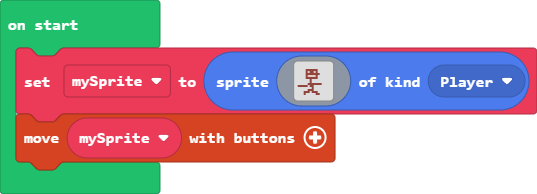
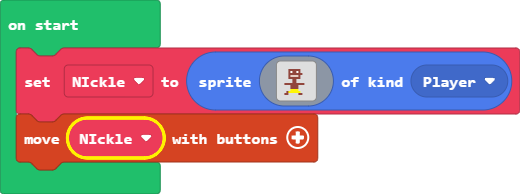
Update main.blocks, main.ts

diff --git a/main.ts b/main.ts
@@ -1,19 +1,19 @@
-let mySprite = sprites.create(img`
+let NIckle = sprites.create(img`
     . . . . . . . . . . . . . . . . 
     . . . . . . . . . . . . . . . . 
     . . . . e e e e e e . . . . . . 
-    . . . . e d e e d e . . . . . . 
+    . . . . e 1 e e 1 e . . . . . . 
     . . . . e e e e e e e . . . . . 
     . . . . e d d d d e . . . . . . 
     . . . . e e e e e e . . . . . . 
-    . . . . . . e . . . . . . . . . 
-    . . . . . . e . . . . . . . . . 
-    . . . . . e e e e e e e . . . . 
-    e e e e e . e e . . . . . . . . 
-    . . . . . . . e . . . . . . . . 
-    . . . . . e e e . . . . . . . . 
-    . . . e e e . e e e . . . . . . 
-    . . . e . . . . . e e . . . . . 
+    . . . . . . e e . . . . . . . . 
+    . . . . . . e e . . . . . . . . 
+    . . e e e e e e e e e e . . . . 
+    . . . . . e e e e . . . . . . . 
+    . . . . . e e e e . . . . . . . 
+    . . . . . 5 5 5 5 . . . . . . . 
+    . . . e 5 5 5 5 5 5 . . . . . . 
+    . . e e . . . . . e e . . . . . 
     . . . . . . . . . . . . . . . . 
     `, SpriteKind.Player)
-controller.moveSprite(mySprite)
+controller.moveSprite(NIckle)
